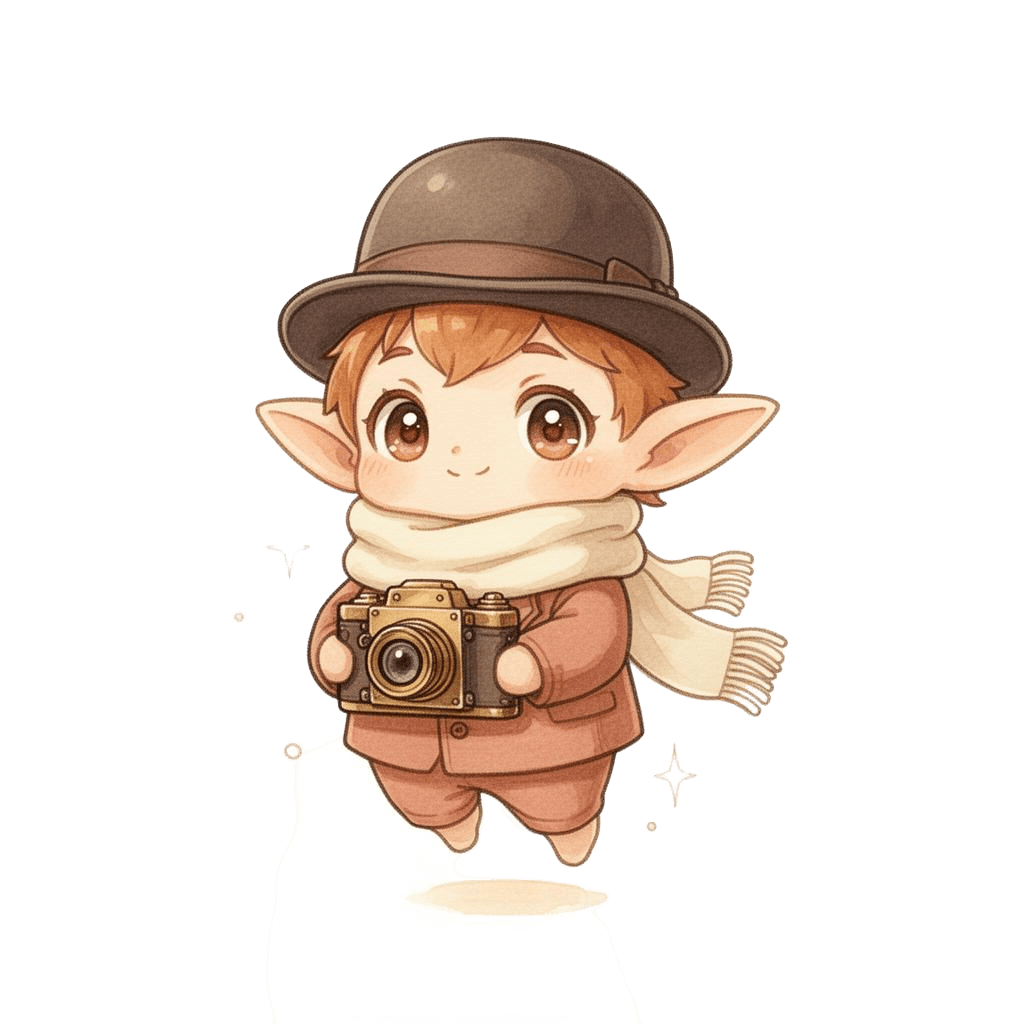
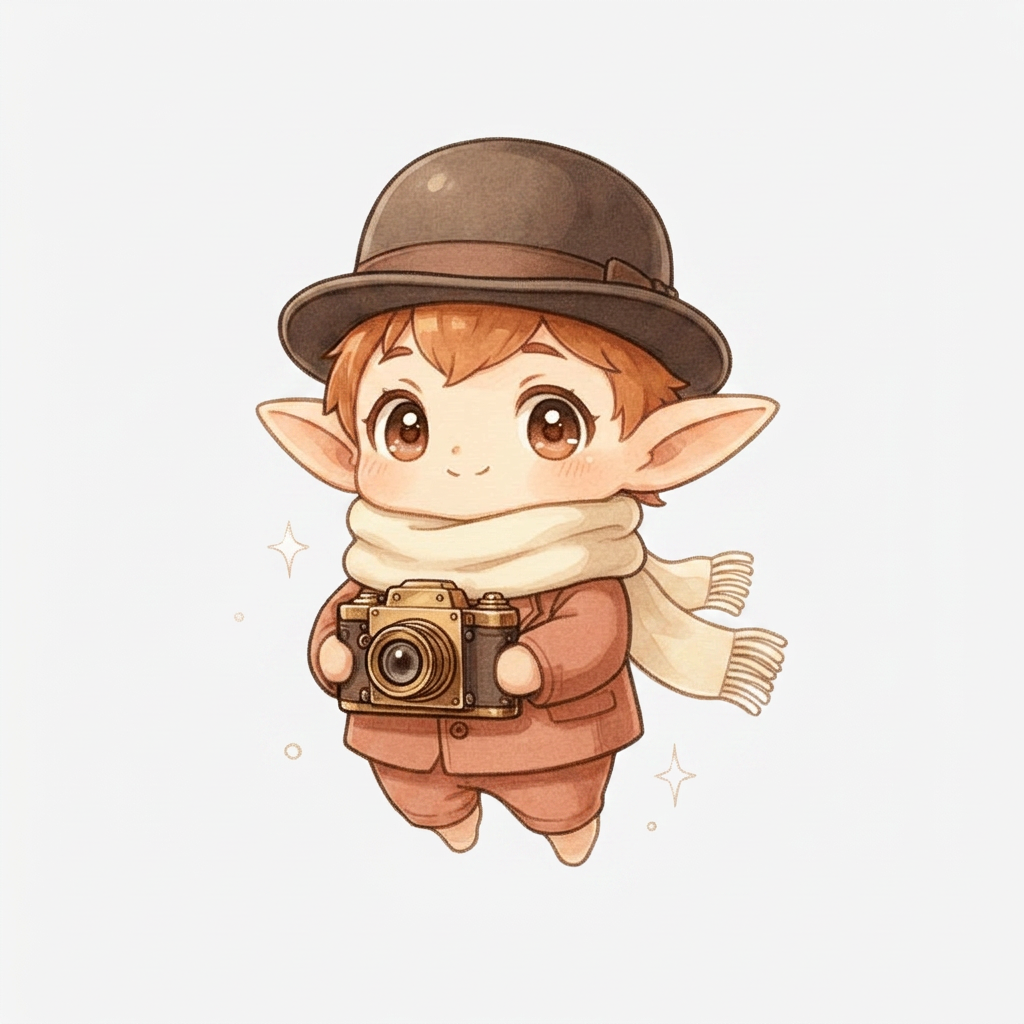
Changes

diff --git a/.lovable/plan.md b/.lovable/plan.md
@@ -1,129 +1,69 @@
-# 中古小精灵 · 系统 Agent 改造方案
+## 修复 + 动作设计方案
 
-把右下角的胶囊换成一只会动的拟人小精灵，点击展开「对话 ↔ 仪表盘」两个 Tab 的抽屉，原有 6 个面板全部保留。
+### 1. 修复脚下白色色块
+当前 `src/assets/spirit-mascot.png` 底部有一个白色矩形（AI 生成时残留的"展示底座"）。两步处理：
 
----
+- 用 `imagegen--edit_image` 重新出图：保留小精灵主体，去掉脚下白底/影子方块，输出真正透明背景的 PNG（"remove the white pedestal/box under the feet, fully transparent background, keep the character identical"）。
+- QA：本地把 PNG 渲到棕色/深色背景上自检一遍，确认无白边、无残底，再覆盖原文件。
 
-## 一、视觉与动效
+### 2. 动作系统设计（纯前端，不动业务逻辑）
 
-### 1.1 小精灵形象
-- 用 imagegen 生成一张 **透明背景 PNG**：拟人小精灵，戴小礼帽 / 围巾，怀里抱着一台小相机或老茶杯，柔和水彩 + 描边风格，与项目 `bg-gradient-primary` 色调一致。
-- 尺寸 ~256×256，约 30-60KB。文件落到 `src/assets/spirit-mascot.png`。
-- 同时生成 **眨眼帧 / 张嘴帧** 备用（可选，若一张图够灵动就先省）。
+把单一 `idle / talking / alert` 升级为一套"会做小动作"的状态机：
 
-### 1.2 动效（全部 CSS，零依赖）
-- **idle 漂浮**：3s 周期上下 ±4px + 轻微旋转 ±2°。
-- **眨眼**：每 4-6s 一次 scaleY(0.05) 100ms。
-- **说话时**：上下抖动加快到 0.8s 周期，头顶冒出 1-2 个小气泡（`<span>` + ping 动画）。
-- **未读 / 提醒**：头顶挂红色小圆点（沿用现在的徽标）。
-- **首次出现**：fade + scale-in，停 2s 自动说一句"你好呀～"气泡（沿用现在的 `showLabel` 机制）。
-- 拖拽、贴边、记忆位置 → 沿用 `FloatingDashboard` 现有逻辑。
+**基础常驻动作**（无操作时随机循环，每 4-8s 触发一个）
+- `float`：上下浮 6px（已有，调更柔）
+- `blink`：眨眼（已有）
+- `breathe`：整体 scale 1 → 1.03 → 1（呼吸感）
+- `sway`：左右轻摆 ±2°
 
----
+**小彩蛋动作**（idle 时随机抽一个播放，每个 ~1.2s）
+- `wave`：右手挥手（整体 rotate + 轻微 translateX）
+- `peek`：探头，头部短暂前倾 + 放大
+- `spin`：原地转 360°（罕见，~5% 概率）
+- `nod`：点头同意
+- `shake`：左右小摇头
+- `jump`：开心小跳 + 落地压扁回弹
 
-## 二、交互结构
+**交互触发动作**
+- hover：`bounce`（轻跳一下 + 光晕加亮）
+- 点击打开抽屉：`spin` + sparkle 加密
+- 拖动：`wiggle` 持续摆动
+- `talking`（AI 回复中）：嘴部区域上下抖 + 头部小幅点动（替换现在过于机械的整体抖）
+- `thinking`（等待首 token）：头顶冒 3 个小点 "…" 渐显
+- `alert`（有未读/提醒）：耳朵抖 + 头顶 ✦ 闪烁加快
+- 新消息到达：`jump` + 临时气泡 "有新消息哦～"
 
+**情绪气泡**（每天首次出现 / 长时间无操作）
+随机轮播：「今天也辛苦啦～」「要不要喝口水？」「你最棒了 ✨」「来摸摸我？」点击精灵触发情绪鼓励气泡（不调用 AI，纯本地文案池）。
+
+### 3. 技术实现
+
+**CSS**（`src/index.css` 追加 keyframes）
+```text
+spirit-breathe / spirit-sway / spirit-wave / spirit-peek
+spirit-spin / spirit-nod / spirit-shake / spirit-jump
+spirit-bounce / spirit-wiggle / spirit-thinking-dots
 ```
-┌─ 小精灵胶囊（拖拽 / 提醒徽标）
-└─ 点击 → 底部抽屉（85vh）
-       ┌─ 顶部：小精灵头像 + "中古小精灵" + 关闭
-       ├─ Tabs:  [💬 对话]  [📊 仪表盘]
-       │
-       ├─ [💬 对话] Tab
-       │   - 消息流（AI Elements: Conversation/Message/MessageResponse）
-       │   - 顶部一排 chip 快捷：今日排班 / 我的等级 / 待办 / 帮我打气
-       │   - 输入框（PromptInput + Submit + 📎 拍照按钮）
-       │   - 拍照走现有 CameraCapture，图片以 image part 发给 agent
-       │
-       └─ [📊 仪表盘] Tab
-           - 现有 ProfileHeaderCard / TodayPanel / TasksPanel /
-             MessagesPanel / SchedulePanel 原样塞进来
-```
+所有动画都尊重 `prefers-reduced-motion`。
 
-抽屉是同一个，Tab 用 `localStorage` 记忆上次选择。
+**组件**（重写 `src/components/spirit/SpiritMascot.tsx`）
+- 扩展 `SpiritState`：`'idle' | 'talking' | 'thinking' | 'alert' | 'hover' | 'dragging'`
+- 内部新增 `actionRef`：idle 时用 `setInterval` 每 5-8s 随机挑一个彩蛋动作，给主体 div 临时加 class，动画结束移除。
+- 多层叠加：外层 `sway` + 中层 `breathe` + 内层 action class，互不干扰。
+- talking 状态：嘴部 mask 区单独抖动（绝对定位一个透明 div，仅播 mouth 动画），不让整体抖。
+- thinking 状态：头顶渲染 3 个 `<span>` 点，按 0/200/400ms 错峰淡入。
+- 新增 `<SpiritBubble>`：小气泡，自动 3s 后消失；情绪文案池放 `src/components/spirit/spiritMoods.ts`。
 
----
+**接入点**
+- `FloatingDashboard.tsx`：把 mascot 包一层 `onMouseEnter→hover`、`onClick→spin+open`、拖动时 `dragging`。
+- `useSpiritChat.ts`：streaming 中 → `talking`；等待首 token → `thinking`。
+- 抽屉关闭后 30s 无操作 → 触发一次情绪气泡。
 
-## 三、AI Agent 后端（edge function）
+### 4. 验收
+- 不同尺寸（28/40/56/72）下精灵无白底、无裁切
+- idle 一分钟内能看到至少 2 种不同小动作
+- talking / thinking 状态视觉可区分
+- 点击精灵能看到情绪气泡
+- 开启系统"减少动态效果"后所有动画停止
 
-新建 `supabase/functions/spirit-chat/index.ts`，用 AI SDK + Lovable AI Gateway：
-
-- 模型：`google/gemini-3-flash-preview`
-- `streamText` + `toUIMessageStreamResponse`
-- system prompt（中文）：温暖、幽默、像店里一位懂行的老前辈，会主动鼓励、偶尔讲个冷知识；不用"主播"，称呼"你"。
-- 工具集（AI SDK `tool({ inputSchema, execute })`）：
-
-| 工具 | 作用 | 数据源 |
-|---|---|---|
-| `get_my_schedule` | 今日 / 本周班次 + 同班同事 | `shift_schedules` + `shop_shifts` |
-| `get_my_progress` | 经验值 / 等级 / 连续打卡 | `user_experience` + `user_check_ins` |
-| `get_pending_todos` | 我的待办（识别纠错、未读、审核） | 现有 `useTasks` / `useNotifications` 同源表 |
-| `search_knowledge` | 中古知识 RAG | `official_knowledge` 全文检索 |
-| `search_shop_kb` | 门店 SOP / 顾客 Q&A | `shop_kb_entries` |
-| `daily_pep_talk` | 抽取一条打气文案 | 内联模板 + 当日日期 / 用户连胜 |
-| `recognize_image` | 把图转交识别管线 | 调 `recognize-product` |
-
-- 鉴权：从 `Authorization` 取 JWT，校验 `user_roles`，把 `user_id` 注入工具上下文。
-- `stopWhen: stepCountIs(50)`。
-- CORS、`verify_jwt = false`、错误 (429/402/500) 一律以可读 JSON 返回。
-
----
-
-## 四、前端实现
-
-### 4.1 新文件
-- `src/assets/spirit-mascot.png`（生成）
-- `src/components/spirit/SpiritMascot.tsx` — 纯 CSS 动效的小精灵组件（接收 `state: idle|talking|alert`）
-- `src/components/spirit/SpiritChatPanel.tsx` — 对话 Tab 内容，`useChat` + AI Elements
-- `src/components/spirit/QuickChips.tsx` — 顶部快捷指令
-- `src/components/spirit/SpiritDrawer.tsx` — 两 Tab 抽屉
-
-### 4.2 改造文件
-- `src/components/dashboard/FloatingDashboard.tsx`：
-  - 胶囊视图换成 `<SpiritMascot />`
-  - 抽屉内容替换为 `<SpiritDrawer />`
-  - 拖拽 / 位置记忆 / 自动打开 / 提醒徽标逻辑保留
-- `MainLayout.tsx`：不变
-- `useDashboardData.ts` / `useNotifications` / `useTasks`：仪表盘 Tab 复用，不动
-
-### 4.3 依赖
-- `bun add ai @ai-sdk/react @ai-sdk/openai-compatible zod`
-- AI Elements：`bunx ai-elements@latest add conversation message prompt-input shimmer tool`
-- 已存在 `react-markdown` 渲染 MessageResponse。
-
-### 4.4 对话不持久化
-- `useChat` 不传 `id`，刷新即清空（用户已选「不保存」）。
-- 关闭抽屉不清空；切 Tab 不清空；点"清空对话"按钮清空。
-
----
-
-## 五、安全 / 性能
-
-- LOVABLE_API_KEY 已在 secrets 中，无需新增。
-- 工具内所有 DB 调用走 service-role client 但只读用户自己的数据（`.eq('user_id', user.id)`）。
-- 小精灵 PNG 走 pngquant 压缩，控制在 50KB 内。
-- 抽屉懒加载（仅打开后 import `SpiritChatPanel`），不增加首屏体积。
-- 对话流即时显示（status='submitted' → shimmer "小精灵在想..."）。
-
----
-
-## 六、不在本轮做
-
-- 持久化历史（用户明确不要）
-- 多会话切换
-- 主动 push（已选要，但需配合现有 `useNotifications` 红点 + 抽屉打开时由小精灵主动开口；不做服务端推送）
-
----
-
-## 七、验证清单
-
-1. 登录后右下角出现会动的小精灵，3s 内自动说"你好呀～"气泡。
-2. 拖动小精灵 → 松手贴边 → 刷新位置仍在。
-3. 点小精灵 → 抽屉打开 → 默认在对话 Tab，输入框自动 focus。
-4. 输入"今天我和谁一起上班"→ 工具调用 → 流式输出班次 + 同事。
-5. 切到仪表盘 Tab → 现有 6 个面板完整显示。
-6. 关掉抽屉再打开 → 对话仍在，刷新页面 → 对话清空。
-7. 顶部 chip "帮我打气"→ 输出一段温暖鼓励文案。
-8. 点 📎 拍照 → 拍一张 → 小精灵识别后用自然语言回答。
-
-确认这个方案后我开工。
+不涉及后端、数据库、edge function 变动。
